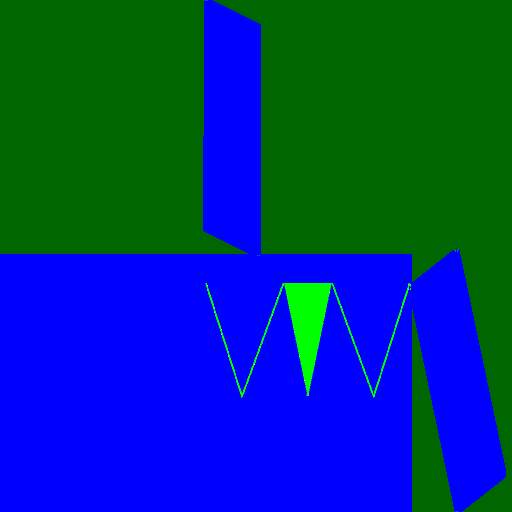
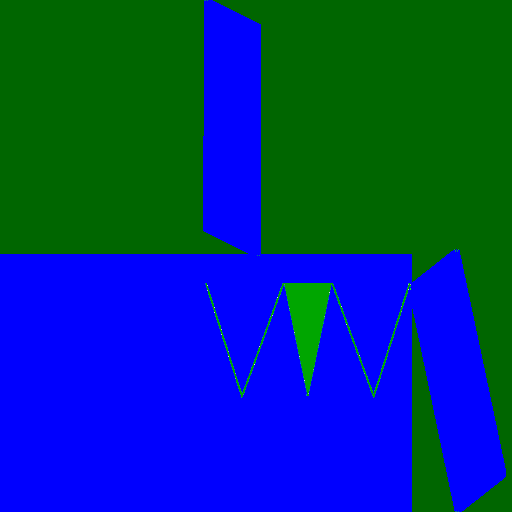
Improve tile decal materials.

diff --git a/core/gridmap/src/items/bridge_floor.rs b/core/gridmap/src/items/bridge_floor.rs
@@ -34,7 +34,7 @@ pub(crate) fn init_bridge_floor_material(
         metallic_roughness_texture: Some(metallic_roughness_texture_handle.clone()),
 
         perceptual_roughness: 0.6,
-        metallic: 0.95,
+        metallic: 0.96,
         ..Default::default()
     });
     res.filled_handle = material_handle;
@@ -49,7 +49,7 @@ pub(crate) fn init_bridge_floor_material(
         metallic_roughness_texture: Some(metallic_roughness_texture_handle.clone()),
 
         perceptual_roughness: 0.6,
-        metallic: 0.95,
+        metallic: 0.96,
         ..Default::default()
     });
     res.half_handle = material_handle;
@@ -63,7 +63,7 @@ pub(crate) fn init_bridge_floor_material(
         metallic_roughness_texture: Some(metallic_roughness_texture_handle.clone()),
 
         perceptual_roughness: 0.6,
-        metallic: 0.95,
+        metallic: 0.96,
         ..Default::default()
     });
     res.corner_handle = material_handle;
@@ -76,7 +76,7 @@ pub(crate) fn init_bridge_floor_material(
         base_color_texture: Some(albedo_texture_handle.clone()),
         metallic_roughness_texture: Some(metallic_roughness_texture_handle.clone()),
         perceptual_roughness: 0.6,
-        metallic: 0.95,
+        metallic: 0.96,
         ..Default::default()
     });
     res.corner2_handle = material_handle;

diff --git a/core/gridmap/src/items/bridge_diagonal_ceiling.rs b/core/gridmap/src/items/bridge_diagonal_ceiling.rs
@@ -34,7 +34,7 @@ pub(crate) fn init_bridge_half_diagonal_ceiling_material(
         base_color_texture: Some(albedo_texture_handle.clone()),
         metallic_roughness_texture: Some(metallic_roughness_texture_handle.clone()),
         perceptual_roughness: 0.6,
-        metallic: 0.95,
+        metallic: 0.96,
         ..Default::default()
     });
     res.high_material_handle = material_handle;
@@ -48,7 +48,7 @@ pub(crate) fn init_bridge_half_diagonal_ceiling_material(
         base_color_texture: Some(albedo_texture_handle.clone()),
         metallic_roughness_texture: Some(metallic_roughness_texture_handle.clone()),
         perceptual_roughness: 0.6,
-        metallic: 0.95,
+        metallic: 0.96,
         ..Default::default()
     });
     res.low_material_handle = material_handle;

diff --git a/core/gridmap/src/items/generic_half_diagonal_ceiling.rs b/core/gridmap/src/items/generic_half_diagonal_ceiling.rs
@@ -34,7 +34,7 @@ pub(crate) fn init_generic_half_diagonal_ceiling_material(
         base_color_texture: Some(albedo_texture_handle.clone()),
         metallic_roughness_texture: Some(metallic_roughness_texture_handle.clone()),
         perceptual_roughness: 0.6,
-        metallic: 0.95,
+        metallic: 0.96,
 
         ..Default::default()
     });
@@ -49,7 +49,7 @@ pub(crate) fn init_generic_half_diagonal_ceiling_material(
         base_color_texture: Some(albedo_texture_handle.clone()),
         metallic_roughness_texture: Some(metallic_roughness_texture_handle.clone()),
         perceptual_roughness: 0.6,
-        metallic: 0.95,
+        metallic: 0.96,
 
         ..Default::default()
     });

diff --git a/core/gridmap/src/items/generic_half_diagonal_floor.rs b/core/gridmap/src/items/generic_half_diagonal_floor.rs
@@ -34,7 +34,7 @@ pub(crate) fn init_generic_half_diagonal_floor_material(
         base_color_texture: Some(albedo_texture_handle.clone()),
         metallic_roughness_texture: Some(metallic_roughness_texture_handle.clone()),
         perceptual_roughness: 0.6,
-        metallic: 0.95,
+        metallic: 0.96,
 
         ..Default::default()
     });
@@ -49,7 +49,7 @@ pub(crate) fn init_generic_half_diagonal_floor_material(
         base_color_texture: Some(albedo_texture_handle.clone()),
         metallic_roughness_texture: Some(metallic_roughness_texture_handle.clone()),
         perceptual_roughness: 0.6,
-        metallic: 0.95,
+        metallic: 0.96,
 
         ..Default::default()
     });

diff --git a/core/gridmap/src/items/generic_wall.rs b/core/gridmap/src/items/generic_wall.rs
@@ -36,7 +36,7 @@ pub(crate) fn init_generic_wall_material(
         base_color_texture: Some(albedo_texture_handle.clone()),
         metallic_roughness_texture: Some(metallic_roughness_texture_handle.clone()),
         perceptual_roughness: 0.6,
-        metallic: 0.95,
+        metallic: 0.96,
         ..Default::default()
     });
     res.material_handle = material_handle;

diff --git a/core/gridmap/src/items/bridge_wall.rs b/core/gridmap/src/items/bridge_wall.rs
@@ -35,7 +35,7 @@ pub(crate) fn init_bridge_wall_material(
         base_color_texture: Some(albedo_texture_handle.clone()),
         metallic_roughness_texture: Some(metallic_roughness_texture_handle.clone()),
         perceptual_roughness: 0.6,
-        metallic: 0.95,
+        metallic: 0.96,
         ..Default::default()
     });
     res.material_handle = material_handle;

diff --git a/core/gridmap/src/items/generic_floor.rs b/core/gridmap/src/items/generic_floor.rs
@@ -31,7 +31,7 @@ pub(crate) fn init_generic_floor_material(
         base_color_texture: Some(albedo_texture_handle.clone()),
         metallic_roughness_texture: Some(metallic_roughness_texture_handle.clone()),
         perceptual_roughness: 0.6,
-        metallic: 0.95,
+        metallic: 0.96,
 
         ..Default::default()
     });

diff --git a/core/gridmap/src/items/reinforced_glass_half_diagonal.rs b/core/gridmap/src/items/reinforced_glass_half_diagonal.rs
@@ -48,7 +48,7 @@ pub(crate) fn init_reinforced_glass_half_diagonal_ceiling_material(
         metallic_roughness_texture: Some(metallic_roughness_texture_handle.clone()),
         alpha_mode: AlphaMode::Blend,
         perceptual_roughness: 0.6,
-        metallic: 0.95,
+        metallic: 0.96,
 
         ..Default::default()
     });

diff --git a/core/gridmap/src/items/reinforced_glass_floor.rs b/core/gridmap/src/items/reinforced_glass_floor.rs
@@ -32,7 +32,7 @@ pub(crate) fn init_reinforced_glass_floor_material(
         metallic_roughness_texture: Some(metallic_roughness_texture_handle.clone()),
         alpha_mode: AlphaMode::Blend,
         perceptual_roughness: 0.6,
-        metallic: 0.95,
+        metallic: 0.96,
 
         ..Default::default()
     });

diff --git a/core/gridmap/src/items/reinforced_glass_wall.rs b/core/gridmap/src/items/reinforced_glass_wall.rs
@@ -30,7 +30,7 @@ pub(crate) fn init_reinforced_glass_wall_material(
         metallic_roughness_texture: Some(metallic_roughness_texture_handle.clone()),
         alpha_mode: AlphaMode::Blend,
         perceptual_roughness: 0.6,
-        metallic: 0.95,
+        metallic: 0.96,
 
         ..Default::default()
     });

diff --git a/core/gridmap/src/items/generic_assets.rs b/core/gridmap/src/items/generic_assets.rs
@@ -31,7 +31,7 @@ pub(crate) fn init_generic_meshes(
     let mat = materials.add(StandardMaterial {
         base_color: Color::rgba(0., 1., 0., 0.5),
         perceptual_roughness: 0.6,
-        metallic: 0.95,
+        metallic: 0.96,
         alpha_mode: AlphaMode::Blend,
         ..Default::default()
     });
